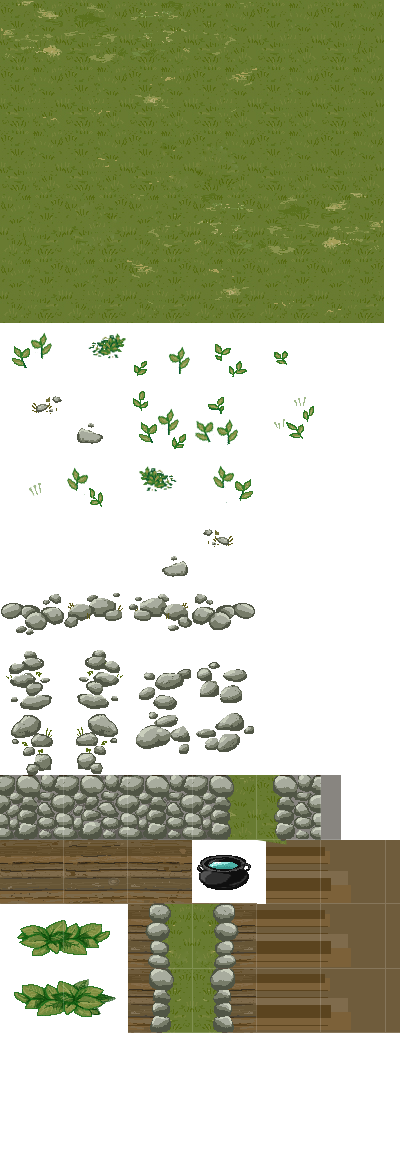
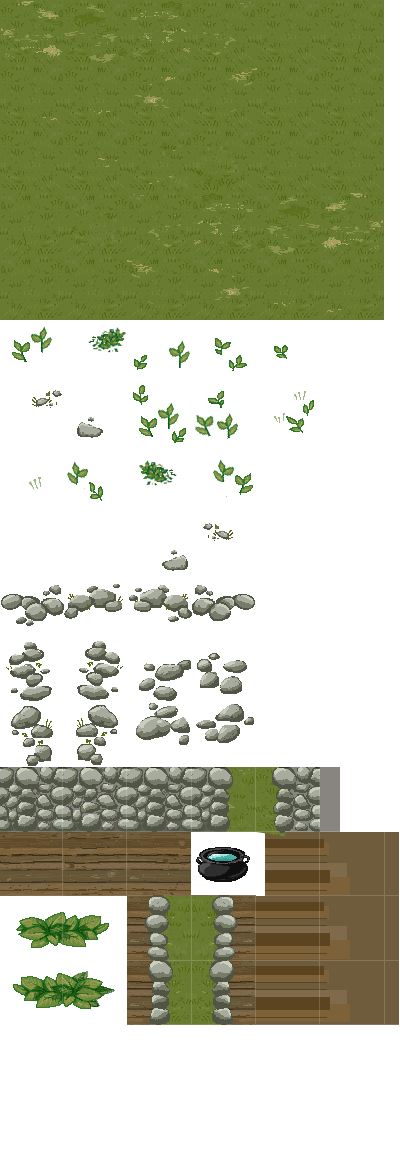
new level

diff --git a/www/Level.js b/www/Level.js
@@ -8,10 +8,10 @@ Level = function (game) {
 Level.prototype = {
 
 	preload: function () {
-		this.game.load.tilemap('map', 'resources/level01.json', null, Phaser.Tilemap.TILED_JSON);
-        this.game.load.image('tiles', 'resources/ground.jpg');
-        this.game.load.image('tiles1', 'resources/overlaye.png');
-        this.game.load.image('tiles2', 'resources/stones.png');
+		this.game.load.tilemap('map', 'resources/level02.json', null, Phaser.Tilemap.TILED_JSON);
+        this.game.load.image('tiles', 'resources/floor_tile.png');
+        // this.game.load.image('tiles1', 'resources/overlaye.png');
+        // this.game.load.image('tiles2', 'resources/stones.png');
 	},
 
 	create: function () {
@@ -20,18 +20,18 @@ Level.prototype = {
 		this.game.stage.backgroundColor = '#4f5d3e';
         
         this.map = this.game.add.tilemap('map');
-        this.map.addTilesetImage('ground', 'tiles');
-        this.map.addTilesetImage('overlaye', 'tiles1');
-        this.map.addTilesetImage('stones', 'tiles2');
+        this.map.addTilesetImage('floor_tile', 'tiles');
+        // this.map.addTilesetImage('overlaye', 'tiles1');
+        // this.map.addTilesetImage('stones', 'tiles2');
         
-        this.layer[0] = this.map.createLayer('ground');
+        this.layer[0] = this.map.createLayer(0);
         this.layer[0].resizeWorld();
-        this.layer[1] = this.map.createLayer('overlaye');
+        this.layer[1] = this.map.createLayer(1);
         this.layer[1].resizeWorld();
-        this.layer[2] = this.map.createLayer('walls');
+        this.layer[2] = this.map.createLayer(2);
         this.layer[2].resizeWorld();
         
-        this.map.setCollisionBetween(1, 20, true, 'walls');
+        this.map.setCollisionBetween(1, 20, true, this.layer[2]);
         this.layer[2].debug = true;
 
     },
